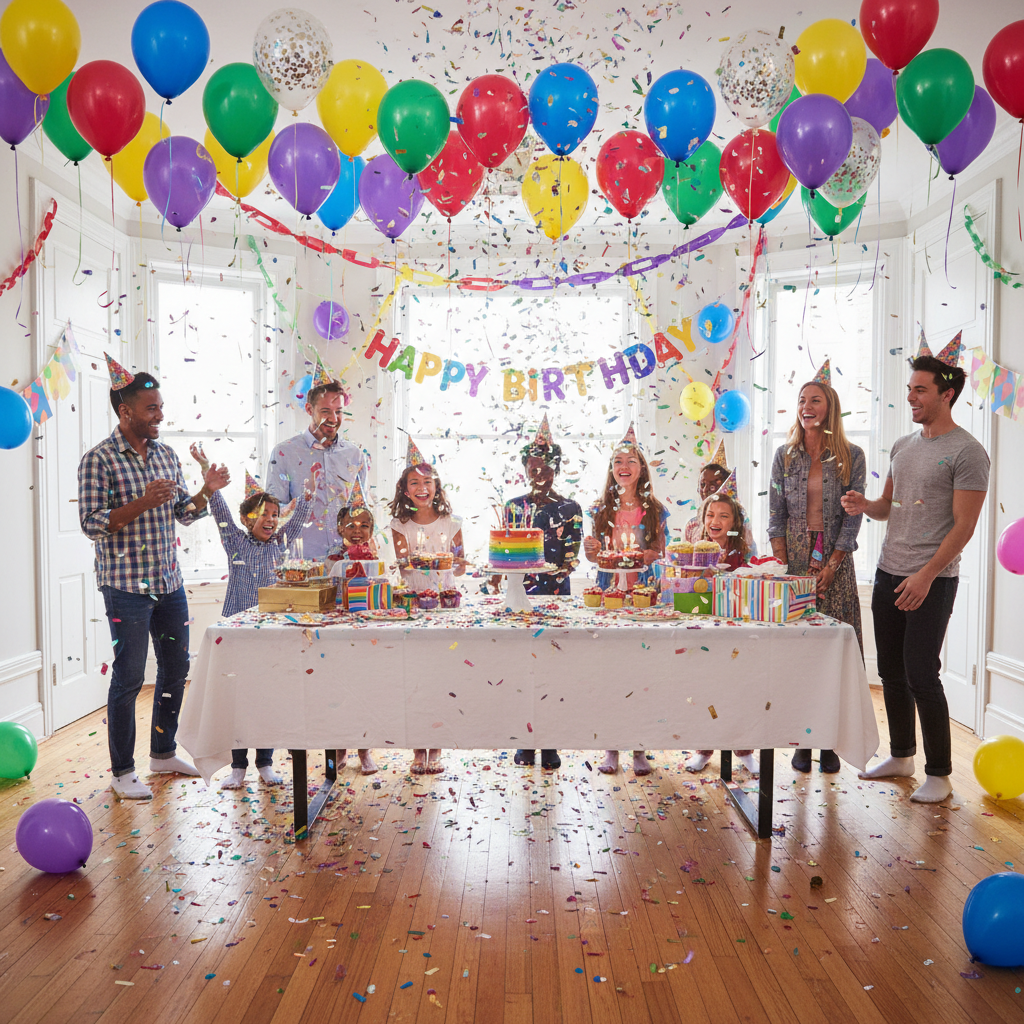
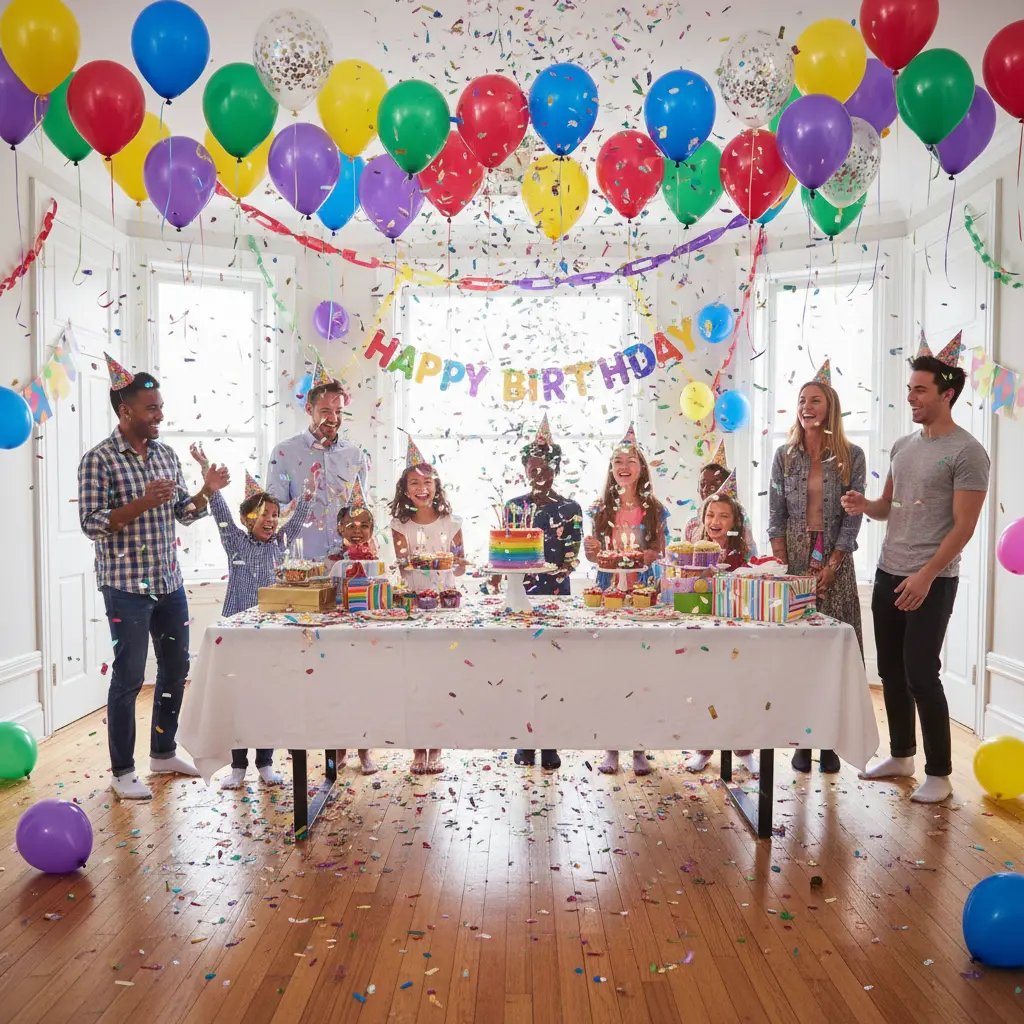
Optimize: Convert all images to WebP and compress

diff --git a/blog/party-decoration-guide-2026.html b/blog/party-decoration-guide-2026.html
@@ -363,7 +363,7 @@
     <!-- Navigation -->
     <nav class="blog-nav">
         <div class="blog-nav-inner">
-            <a href="https://eventdecorsigns.com/index.html" class="logo"><img loading="lazy" src="https://eventdecorsigns.com/images/logo-icon.png" alt="EventDecorSigns" style="height:28px;vertical-align:middle;margin-right:8px;"> EventDecorSigns</a>
+            <a href="https://eventdecorsigns.com/index.html" class="logo"><img loading="lazy" src="https://eventdecorsigns.com/images/logo-icon.webp" alt="EventDecorSigns" style="height:28px;vertical-align:middle;margin-right:8px;"> EventDecorSigns</a>
             <ul class="nav-links">
                 <li><a href="https://eventdecorsigns.com/index.html">Home</a></li>
                 <li><a href="https://eventdecorsigns.com/products.html">Products</a></li>

diff --git a/blog/acrylic-table-numbers-buyers-guide-2026.html b/blog/acrylic-table-numbers-buyers-guide-2026.html
@@ -101,7 +101,7 @@
     <!-- Navigation -->
     <nav class="blog-nav">
         <div class="blog-nav-inner">
-            <a href="https://eventdecorsigns.com/index.html" class="logo"><img loading="lazy" src="https://eventdecorsigns.com/images/logo-icon.png" alt="EventDecorSigns" style="height:28px;vertical-align:middle;margin-right:8px;"> EventDecorSigns</a>
+            <a href="https://eventdecorsigns.com/index.html" class="logo"><img loading="lazy" src="https://eventdecorsigns.com/images/logo-icon.webp" alt="EventDecorSigns" style="height:28px;vertical-align:middle;margin-right:8px;"> EventDecorSigns</a>
             <div class="nav-links">
                 <a href="https://eventdecorsigns.com/index.html">Home</a>
                 <a href="https://eventdecorsigns.com/products.html">Products</a>

diff --git a/blog/baby-shower-signs-guide-2026.html b/blog/baby-shower-signs-guide-2026.html
@@ -101,7 +101,7 @@
     <!-- Navigation -->
     <nav class="blog-nav">
         <div class="blog-nav-inner">
-            <a href="https://eventdecorsigns.com/index.html" class="logo"><img loading="lazy" src="https://eventdecorsigns.com/images/logo-icon.png" alt="EventDecorSigns" style="height:28px;vertical-align:middle;margin-right:8px;"> EventDecorSigns</a>
+            <a href="https://eventdecorsigns.com/index.html" class="logo"><img loading="lazy" src="https://eventdecorsigns.com/images/logo-icon.webp" alt="EventDecorSigns" style="height:28px;vertical-align:middle;margin-right:8px;"> EventDecorSigns</a>
             <div class="nav-links">
                 <a href="https://eventdecorsigns.com/index.html">Home</a>
                 <a href="https://eventdecorsigns.com/products.html">Products</a>

diff --git a/blog/wedding-souvenirs-ideas-2026.html b/blog/wedding-souvenirs-ideas-2026.html
@@ -101,7 +101,7 @@
     <!-- Navigation -->
     <nav class="blog-nav">
         <div class="blog-nav-inner">
-            <a href="https://eventdecorsigns.com/index.html" class="logo"><img loading="lazy" src="https://eventdecorsigns.com/images/logo-icon.png" alt="EventDecorSigns" style="height:28px;vertical-align:middle;margin-right:8px;"> EventDecorSigns</a>
+            <a href="https://eventdecorsigns.com/index.html" class="logo"><img loading="lazy" src="https://eventdecorsigns.com/images/logo-icon.webp" alt="EventDecorSigns" style="height:28px;vertical-align:middle;margin-right:8px;"> EventDecorSigns</a>
             <div class="nav-links">
                 <a href="https://eventdecorsigns.com/index.html">Home</a>
                 <a href="https://eventdecorsigns.com/products.html">Products</a>

diff --git a/blog/birthday-decoration-ideas-2026.html b/blog/birthday-decoration-ideas-2026.html
@@ -28,7 +28,7 @@
 <body>
     <header>
         <nav>
-            <a href="../index.html" class="logo"><img loading="lazy" src="../images/logo-icon.png" alt="EventDecorSigns" style="height:28px;vertical-align:middle;margin-right:8px;"> EventDecorSigns</a>
+            <a href="../index.html" class="logo"><img loading="lazy" src="../images/logo-icon.webp" alt="EventDecorSigns" style="height:28px;vertical-align:middle;margin-right:8px;"> EventDecorSigns</a>
             <ul class="nav-links">
                 <li><a href="../index.html">Home</a></li>
                 <li><a href="../products.html">Products</a></li>

diff --git a/blog/event-decor-trends-2026.html b/blog/event-decor-trends-2026.html
@@ -30,7 +30,7 @@
 <body>
     <header>
         <nav>
-            <a href="../index.html" class="logo"><img loading="lazy" src="../images/logo-icon.png" alt="EventDecorSigns" style="height:28px;vertical-align:middle;margin-right:8px;"> EventDecorSigns</a>
+            <a href="../index.html" class="logo"><img loading="lazy" src="../images/logo-icon.webp" alt="EventDecorSigns" style="height:28px;vertical-align:middle;margin-right:8px;"> EventDecorSigns</a>
             <ul class="nav-links">
                 <li><a href="../index.html">Home</a></li>
                 <li><a href="../products.html">Products</a></li>

diff --git a/blog/rustic-wedding-decor-guide-2026.html b/blog/rustic-wedding-decor-guide-2026.html
@@ -54,7 +54,7 @@
 <body>
     <header>
         <nav>
-            <a href="../index.html" class="logo"><img loading="lazy" src="../images/logo-icon.png" alt="EventDecorSigns" style="height:28px;vertical-align:middle;margin-right:8px;"> EventDecorSigns</a>
+            <a href="../index.html" class="logo"><img loading="lazy" src="../images/logo-icon.webp" alt="EventDecorSigns" style="height:28px;vertical-align:middle;margin-right:8px;"> EventDecorSigns</a>
             <ul class="nav-links">
                 <li><a href="../index.html">Home</a></li>
                 <li><a href="../products.html">Products</a></li>

diff --git a/blog/wedding-dance-floor-ideas-2026.html b/blog/wedding-dance-floor-ideas-2026.html
@@ -54,7 +54,7 @@
 <body>
     <header>
         <nav>
-            <a href="../index.html" class="logo"><img loading="lazy" src="../images/logo-icon.png" alt="EventDecorSigns" style="height:28px;vertical-align:middle;margin-right:8px;"> EventDecorSigns</a>
+            <a href="../index.html" class="logo"><img loading="lazy" src="../images/logo-icon.webp" alt="EventDecorSigns" style="height:28px;vertical-align:middle;margin-right:8px;"> EventDecorSigns</a>
             <ul class="nav-links">
                 <li><a href="../index.html">Home</a></li>
                 <li><a href="../products.html">Products</a></li>

diff --git a/blog/wedding-invitation-trends-2026.html b/blog/wedding-invitation-trends-2026.html
@@ -54,7 +54,7 @@
 <body>
     <header>
         <nav>
-            <a href="../index.html" class="logo"><img loading="lazy" src="../images/logo-icon.png" alt="EventDecorSigns" style="height:28px;vertical-align:middle;margin-right:8px;"> EventDecorSigns</a>
+            <a href="../index.html" class="logo"><img loading="lazy" src="../images/logo-icon.webp" alt="EventDecorSigns" style="height:28px;vertical-align:middle;margin-right:8px;"> EventDecorSigns</a>
             <ul class="nav-links">
                 <li><a href="../index.html">Home</a></li>
                 <li><a href="../products.html">Products</a></li>

diff --git a/blog/wedding-menu-ideas-2026.html b/blog/wedding-menu-ideas-2026.html
@@ -58,7 +58,7 @@
 <body>
     <header>
         <nav>
-            <a href="../index.html" class="logo"><img loading="lazy" src="../images/logo-icon.png" alt="EventDecorSigns" style="height:28px;vertical-align:middle;margin-right:8px;"> EventDecorSigns</a>
+            <a href="../index.html" class="logo"><img loading="lazy" src="../images/logo-icon.webp" alt="EventDecorSigns" style="height:28px;vertical-align:middle;margin-right:8px;"> EventDecorSigns</a>
             <ul class="nav-links">
                 <li><a href="../index.html">Home</a></li>
                 <li><a href="../products.html">Products</a></li>

diff --git a/blog/wedding-seating-chart-ideas-2026.html b/blog/wedding-seating-chart-ideas-2026.html
@@ -58,7 +58,7 @@
 <body>
     <header>
         <nav>
-            <a href="../index.html" class="logo"><img loading="lazy" src="../images/logo-icon.png" alt="EventDecorSigns" style="height:28px;vertical-align:middle;margin-right:8px;"> EventDecorSigns</a>
+            <a href="../index.html" class="logo"><img loading="lazy" src="../images/logo-icon.webp" alt="EventDecorSigns" style="height:28px;vertical-align:middle;margin-right:8px;"> EventDecorSigns</a>
             <ul class="nav-links">
                 <li><a href="../index.html">Home</a></li>
                 <li><a href="../products.html">Products</a></li>

diff --git a/products/age-sign.html b/products/age-sign.html
@@ -67,7 +67,7 @@
 <body>
     <header>
         <nav>
-            <a href="../index.html" class="logo"><img loading="lazy" src="../images/logo-icon.png" alt="EventDecorSigns" style="height:28px;vertical-align:middle;margin-right:8px;"> EventDecorSigns</a>
+            <a href="../index.html" class="logo"><img loading="lazy" src="../images/logo-icon.webp" alt="EventDecorSigns" style="height:28px;vertical-align:middle;margin-right:8px;"> EventDecorSigns</a>
             <ul class="nav-links">
                 <li><a href="../index.html">Home</a></li>
                 <li><a href="../products.html">Products</a></li>
